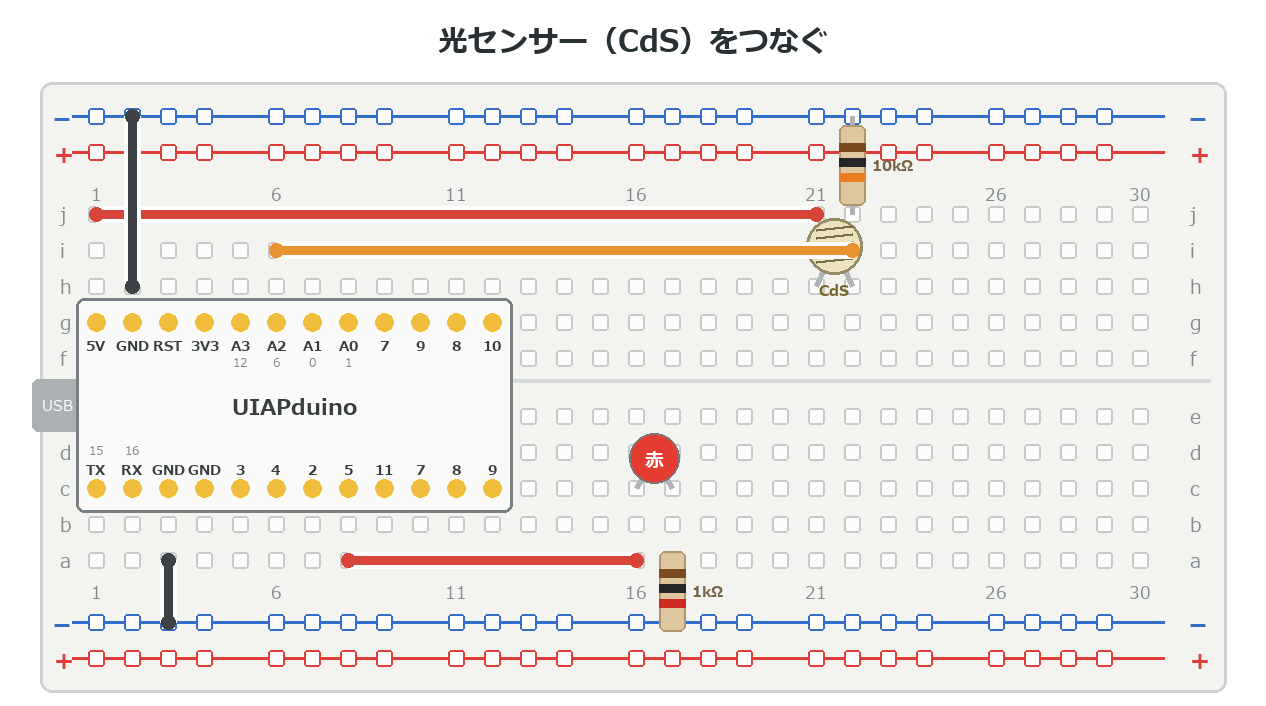
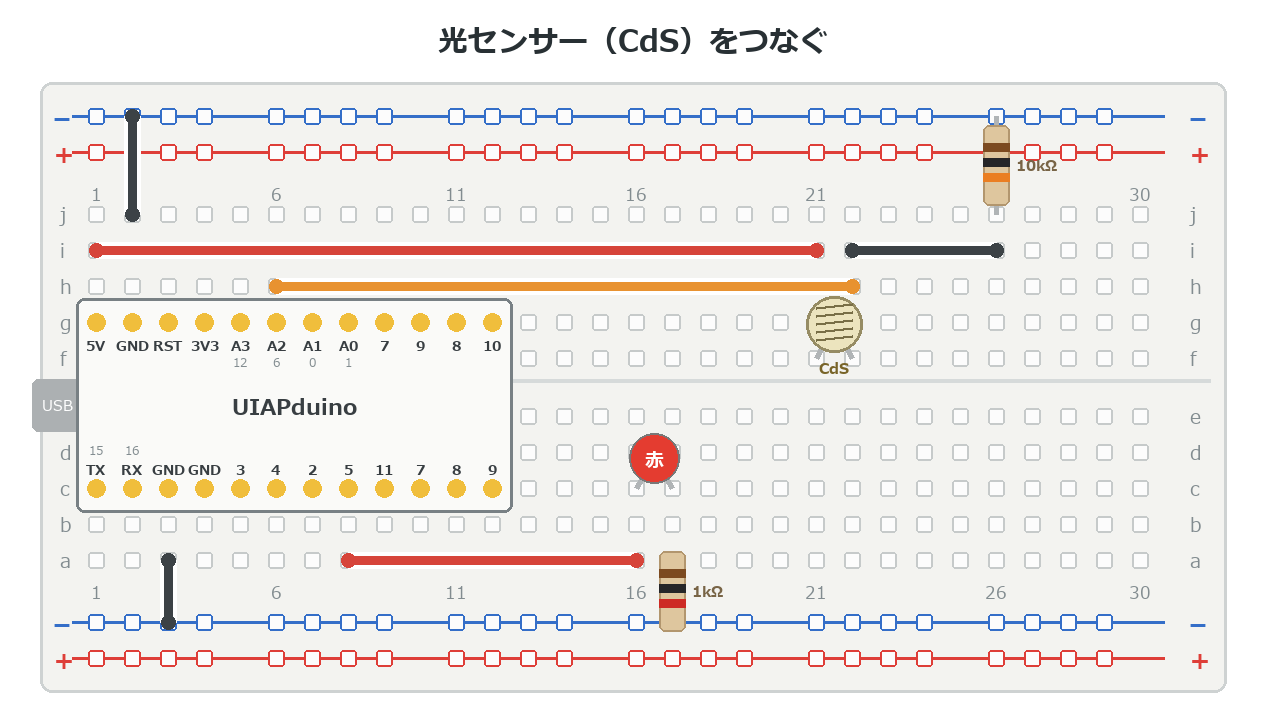
e1 の CdS を f行 に移し、配線の重なりをなくした
CdS を h行 に置いていたため、本体（頭）が i行・j行 の配線に重なり、
10kΩ も 5V の線とぶつかっていた。

f行 に移したうえで、配線の行を組みなおして交差をゼロにした:
- 5V   … i行（1〜21列）
- A2   … h行（6〜22列）… CdS の頭の下を通る
- 同じつながりを i行（22〜26列）で 26列へ渡す
- 10kΩ … 26列の j行 から 上の −レールへ（たて向き）
- GND  … 2列の j行 から 上の −レールへ

GND を いちばん上の j行 から立ち上げることで、
横に走る線をまたがずに レールへ届くようにした。

Changed region(s): [[0.0616, 0.1558, 0.8009, 0.5297], [0.7701, 0.1558, 0.8318, 0.3116]]

diff --git a/tools/bb.py b/tools/bb.py
@@ -251,7 +251,7 @@ def to92(d, col, row, name="温度センサー"):
 def cds(d, col, row):
     """CdS（光センサー）。足は2本、となりあう2列。向きはない。"""
     x1, x2, y = cx(col), cx(col + 1), cy(row)
-    mx, my = (x1 + x2) / 2, y - 40
+    mx, my = (x1 + x2) / 2, y - 34
     for x in (x1, x2):
         d.line([x, y, mx, my], fill=(176, 180, 182), width=5)
     d.ellipse([mx - 28, my - 28, mx + 28, my + 28], fill=(236, 228, 190),
